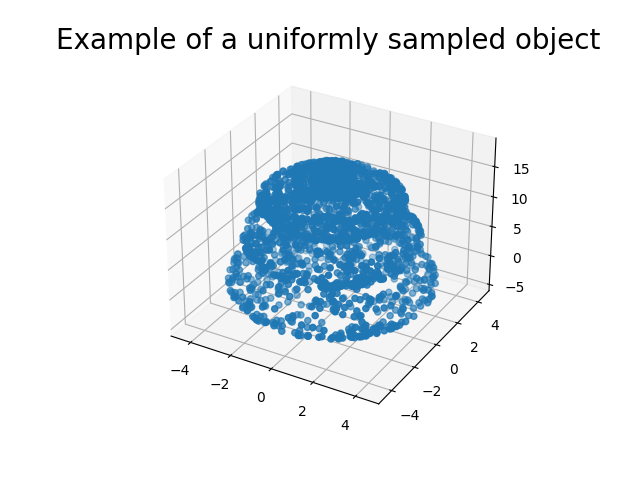
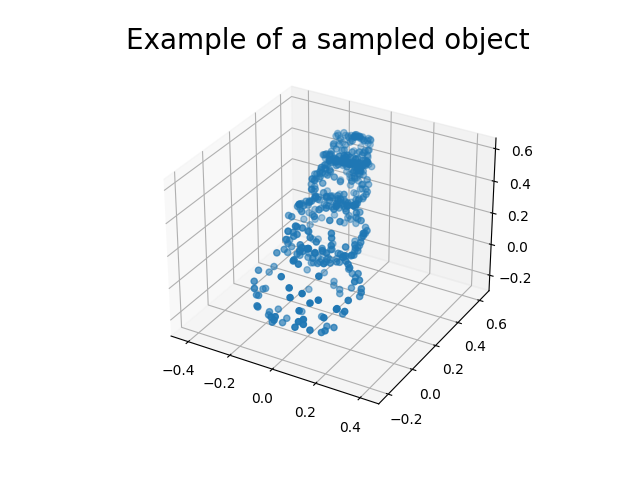
edits to snow dataset generation

diff --git a/preprocessing.py b/preprocessing.py
@@ -12,7 +12,7 @@ from shapeGeneration import printShape
 import torch
 from torch.utils.data import DataLoader, Dataset
 
-import tensorflow as tf
+# import tensorflow as tf
 
 class ShapeDataset(Dataset):
     def __init__(self, X, Y):
@@ -28,9 +28,25 @@ class ShapeDataset(Dataset):
 
 # Applying random rotation and translation
 def normalizeScale(shapeMat):
+    # return shapeMat
     minCoord = shapeMat.min(axis=0)
-    shapeMat = (shapeMat - minCoord)/(shapeMat.max(axis=0) - minCoord)
-    return shapeMat
+    maxCoord = shapeMat.max(axis=0)
+    # print(minCoord, maxCoord)
+    # axSizes = 1/(maxCoord - minCoord)
+    scaleVal = max(maxCoord-minCoord)
+    scaled = shapeMat / scaleVal
+    # print(axSizes)
+    # scaleMat = np.array([
+    #     [axSizes[0],0,0],
+    #     [0,axSizes[1],0,],
+    #     [0,0,axSizes[2]]
+    #     ])
+    # scaled = np.matmul(shapeMat, scaleMat)
+    return scaled
+
+    # minCoord = shapeMat.min(axis=0)
+    # shapeMat = (shapeMat - minCoord)/(shapeMat.max(axis=0) - minCoord)
+    # return shapeMat
 
 def randomRotation(shapeMat):
     rotation_angle = np.random.uniform(0,1) * 2 * math.pi
@@ -58,12 +74,12 @@ def randomTranslate(shapeMat):
     return shapeMat
 
 def transform(shapeMat):
-    translated = randomTranslate(shapeMat)
-    rotated = randomRotation(translated)
-    normalized = normalizeScale(rotated)
+    normalized = normalizeScale(shapeMat)
+    rotated = randomRotation(normalized)
+    translated = randomTranslate(rotated)
     # normalized = normalizeScale(shapeMat)
     # print(normalized)
-    return normalized
+    return translated
 
     # return shapeMat
 
@@ -78,7 +94,7 @@ def preprocess_tf(file_loc, num_classes):
     coordsAsNumpy = shapeCoords.to_numpy().reshape((numSamples,500,3))
     transformed = np.array(list(map(transform, list(coordsAsNumpy))))
     
-    one_hot_labels = tf.one_hot(labels, num_classes)
+    # one_hot_labels = tf.one_hot(labels, num_classes)
     return transformed, labels #one_hot_labels
 
 def preprocess(file_loc, batch_size, test_size):
@@ -101,3 +117,11 @@ def preprocess(file_loc, batch_size, test_size):
     dataloader_test = DataLoader(dataset_test, batch_size=32, shuffle=False)
 
     return dataloader_train, dataloader_test
+
+def main():
+    snowData, snowLabels = preprocess_tf('/Users/neilxu/Documents/3dObjectLearning/snowDataset.csv', 3)
+    printShape(snowData[0])
+    return
+
+if __name__ == "__main__":
+    main()

diff --git a/shapeGeneration.py b/shapeGeneration.py
@@ -144,6 +144,34 @@ def generateShapeDataset(samples=1000, points=500, num_classes=3):
     df = pd.DataFrame(data)
     return df
 
+def set_axes_equal(ax):
+    '''Make axes of 3D plot have equal scale so that spheres appear as spheres,
+    cubes as cubes, etc..  This is one possible solution to Matplotlib's
+    ax.set_aspect('equal') and ax.axis('equal') not working for 3D.
+
+    Input
+      ax: a matplotlib axis, e.g., as output from plt.gca().
+    '''
+
+    x_limits = ax.get_xlim3d()
+    y_limits = ax.get_ylim3d()
+    z_limits = ax.get_zlim3d()
+
+    x_range = abs(x_limits[1] - x_limits[0])
+    x_middle = np.mean(x_limits)
+    y_range = abs(y_limits[1] - y_limits[0])
+    y_middle = np.mean(y_limits)
+    z_range = abs(z_limits[1] - z_limits[0])
+    z_middle = np.mean(z_limits)
+
+    # The plot bounding box is a sphere in the sense of the infinity
+    # norm, hence I call half the max range the plot radius.
+    plot_radius = 0.5*max([x_range, y_range, z_range])
+
+    ax.set_xlim3d([x_middle - plot_radius, x_middle + plot_radius])
+    ax.set_ylim3d([y_middle - plot_radius, y_middle + plot_radius])
+    ax.set_zlim3d([z_middle - plot_radius, z_middle + plot_radius])
+
 def printShape(points):
     xLocs = [pt[0] for pt in points]
     yLocs = [pt[1] for pt in points]
@@ -151,7 +179,8 @@ def printShape(points):
     fig = plt.figure()
     ax = fig.add_subplot(projection='3d')
     ax.scatter(xLocs, yLocs, zLocs)
-    ax.set_title('Example of a uniformly sampled object', fontdict={'fontsize':20})
+    set_axes_equal(ax)
+    ax.set_title('Example of a sampled object', fontdict={'fontsize':20})
     fig.savefig('./full_figure.png')
     fig.show()
 

diff --git a/snowGeneration.py b/snowGeneration.py
@@ -4,7 +4,7 @@ import numpy as np
 import random
 import math
 
-from shapeGeneration import generateCone, generateCylinder, generateSphere, printShape, printShape, Ball
+from shapeGeneration import generateCone, generateCylinder, generateSphere, printShape, Ball
 
 def mergeSpheres(s1, s2):
     s2.points = np.array(list(filter(lambda x: euclideanDist(s1.pos, x) > s1.radius, s2.points)))
@@ -118,12 +118,14 @@ def generateCloud():
     np.random.shuffle(points)
     return points
 
-def generateSnowDataset(samples=1000, num_points=1000, num_classes=3):
+def generateSnowDataset(samples=1000, num_points=500, num_classes=3):
     funcs = [generateCloud, generateIceCream, generateSnowMan]
     data = []
     for i in range(samples):
-        points = funcs[random.randint(0,2)]()
-        data.append(points[:num_points])
+        objClass = random.randint(0,2)
+        points = funcs[objClass]()
+        pointsFlat = [objClass] + list(points[:num_points].flatten())
+        data.append(pointsFlat)
 
     df = pd.DataFrame(data)
     return df
@@ -131,6 +133,7 @@ def generateSnowDataset(samples=1000, num_points=1000, num_classes=3):
 def main():
     snowShapes = generateSnowDataset()
     snowShapes.to_csv("./snowDataset.csv")
+    # print(snowShapes.head())
 
     # ice_cream = generateIceCream()
     # printShape(ice_cream)
